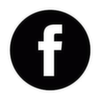
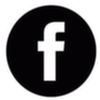
minimalistic best

Changed region(s): [[0.03, 0.03, 0.99, 0.99], [0.36, 0.21, 0.66, 0.84]]

diff --git a/index.html b/index.html
@@ -6,7 +6,7 @@
 		<meta name="author" content="Shivam Tiwari">
 		<meta charset="UTF-8">
 		<style>
-			h1 {font-size:64px;color:black;font-family:helvetica;text-align:center;text-decoration : overline underline;font-weight:bolder;}
+			h1 {font-size:64px;color:black;font-family:helvetica;text-align:center;}
 			h2 {font-size:14px;color:black;font-family:Courier;text-align:center;font-weight:lighter;}
 			h3 {text-align : center;}
 			a {font-size:10px;color:black;font-family:sans-serif;text-decoration: none;}
@@ -17,6 +17,7 @@
 	<body>
 		<br>
 		<h1>Shivam Tiwari</h1>
+		<br>
 		<h2>
 				if(ferrariStillInGarage()){<br>
 					System.out.println("Awesomeness will have to wait.");<br>
@@ -25,6 +26,8 @@
 					System.out.println("The time is now.");<br>
 				}<br>
 		</h2>
+		<br>
+		<br>
 		<hr>
 		<br>
 		<!-- Freelancer -->
@@ -44,17 +47,18 @@
 		</h3>
 		<br>
 		<hr>
+		<br>
 		<p align = "center">
-			<a href="mailto:iam@shivamtiwari93.in"><img src="./icons/mail.png" width="100" height="100"></a>
-			<a href="http://linkedin.com/in/shivamtiwari93"><img src="./icons/linkedin.png" width="100" height="100"></a>
-			<a href="http://freelancer.com/u/shivamtiwari93.html"><img src="./icons/freelancer.png" width="100" height="100"></a>
-			<a href="http://github.com/shivamtiwari93"><img src="./icons/github.png" width="100" height="100"></a>
-			<a href="http://plus.google.com/+shivamtiwari93"><img src="./icons/google-plus.png" width="100" height="100"></a>
-			<a href="http://twitter.com/shivamtiwari93"><img src="./icons/twitter.png" width="100" height="100"></a>
-			<a href="http://fb.com/shivamtiwari93"><img src="./icons/facebook.png" width="100" height="100"></a>
-			<a href="http://myspace.com/shivamtiwari93"><img src="./icons/myspace.png" width="100" height="100"></a>
-			<a href="http://klout.com/shivamtiwari93"><img src="./icons/klout.png" width="100" height="100"></a>
-			<a href="https://www.youtube.com/user/shivamtiwari93"><img src="./icons/youtube.png" width="100" height="100"></a>
+			<a href="mailto:iam@shivamtiwari93.in"><img src="./icons/mail.png" width="30" height="30"></a>
+			<a href="http://linkedin.com/in/shivamtiwari93"><img src="./icons/linkedin.png" width="30" height="30"></a>
+			<a href="http://freelancer.com/u/shivamtiwari93.html"><img src="./icons/freelancer.png" width="30" height="30"></a>
+			<a href="http://github.com/shivamtiwari93"><img src="./icons/github.png" width="30" height="30"></a>
+			<a href="http://plus.google.com/+shivamtiwari93"><img src="./icons/google-plus.png" width="30" height="30"></a>
+			<a href="http://twitter.com/shivamtiwari93"><img src="./icons/twitter.png" width="30" height="30"></a>
+			<a href="http://fb.com/shivamtiwari93"><img src="./icons/facebook.png" width="30" height="30"></a>
+			<a href="http://myspace.com/shivamtiwari93"><img src="./icons/myspace.png" width="30" height="30"></a>
+			<a href="http://klout.com/shivamtiwari93"><img src="./icons/klout.png" width="30" height="30"></a>
+			<a href="https://www.youtube.com/user/shivamtiwari93"><img src="./icons/youtube.png" width="30" height="30"></a>
 		</p>
 	</body>
 </html>
